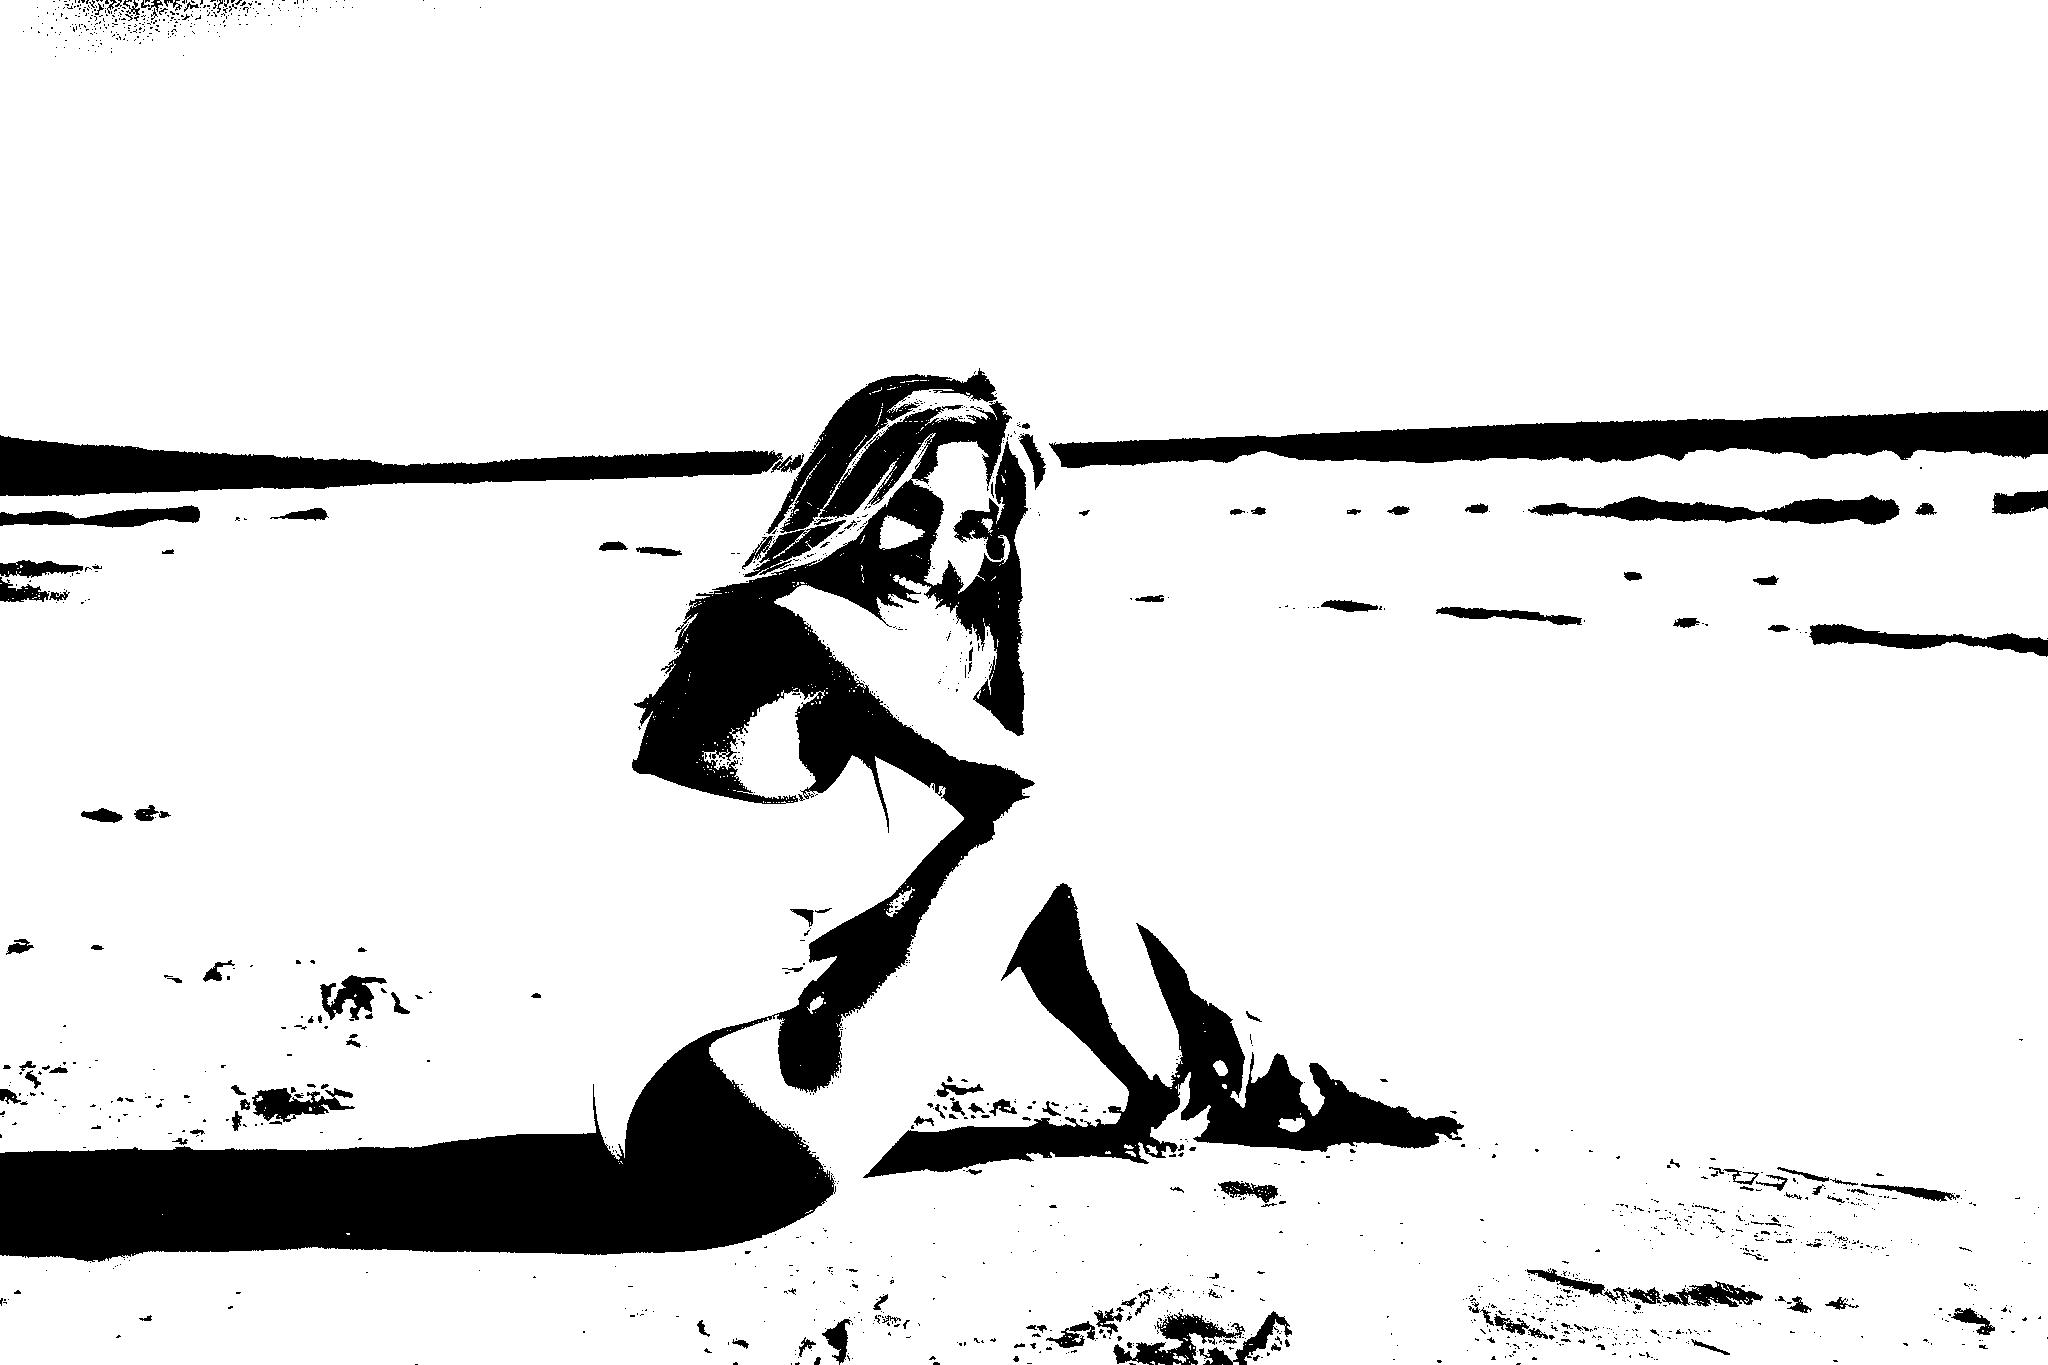
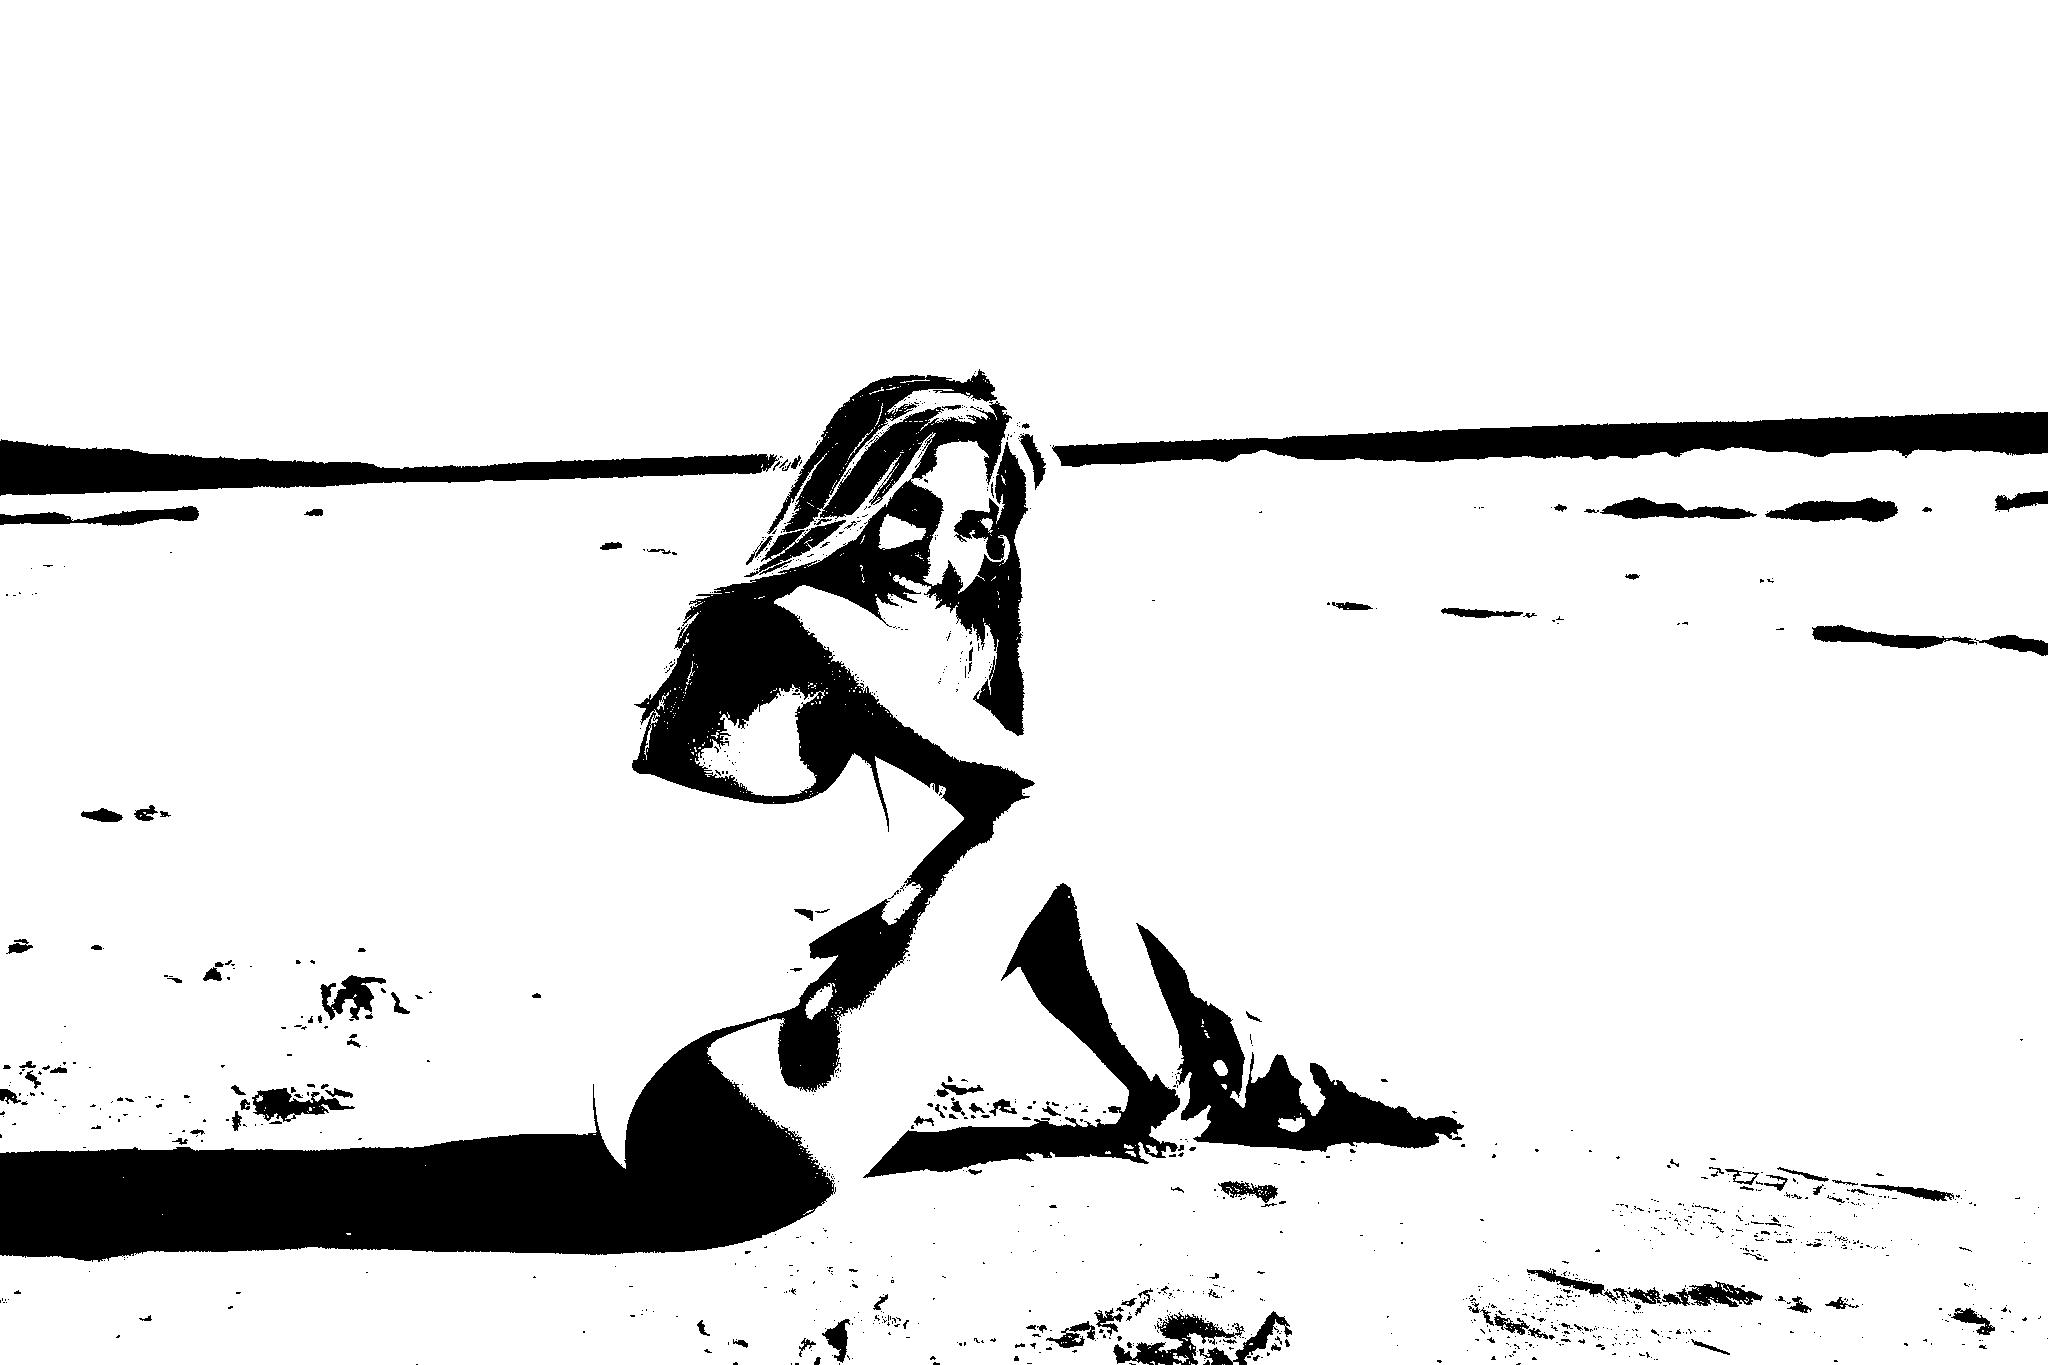
FileChooser alpha

diff --git a/src/main/java/org/image/ImageProcessor.java b/src/main/java/org/image/ImageProcessor.java
@@ -50,7 +50,7 @@ public class ImageProcessor {
                 int green = (pixel >> 8) & 0xff;
                 int blue = pixel & 0xff;
 
-                int gray = (int) (0.3 * red + 0.59 * green + 0.11 * blue);
+                int gray = (int) (0.35 * red + 0.35 * green + 0.35 * blue);
                 int binary = (gray > 128) ? 255 : 0;
 
                 int newPixel = (binary << 16) | (binary << 8) | binary;
@@ -100,7 +100,7 @@ public class ImageProcessor {
                 int green = (pixel >> 8) & 0xff;
                 int blue = pixel & 0xff;
 
-                int gray = (int) (0.1 * red + 0.79 * green + 0.2 * blue);
+                int gray = (int) (0.79 * red + 0.11 * green + 0.1 * blue);
                 int binary = (gray > 128) ? 255 : 0;
 
                 int newPixel = (binary << 16) | (binary << 8) | binary;
